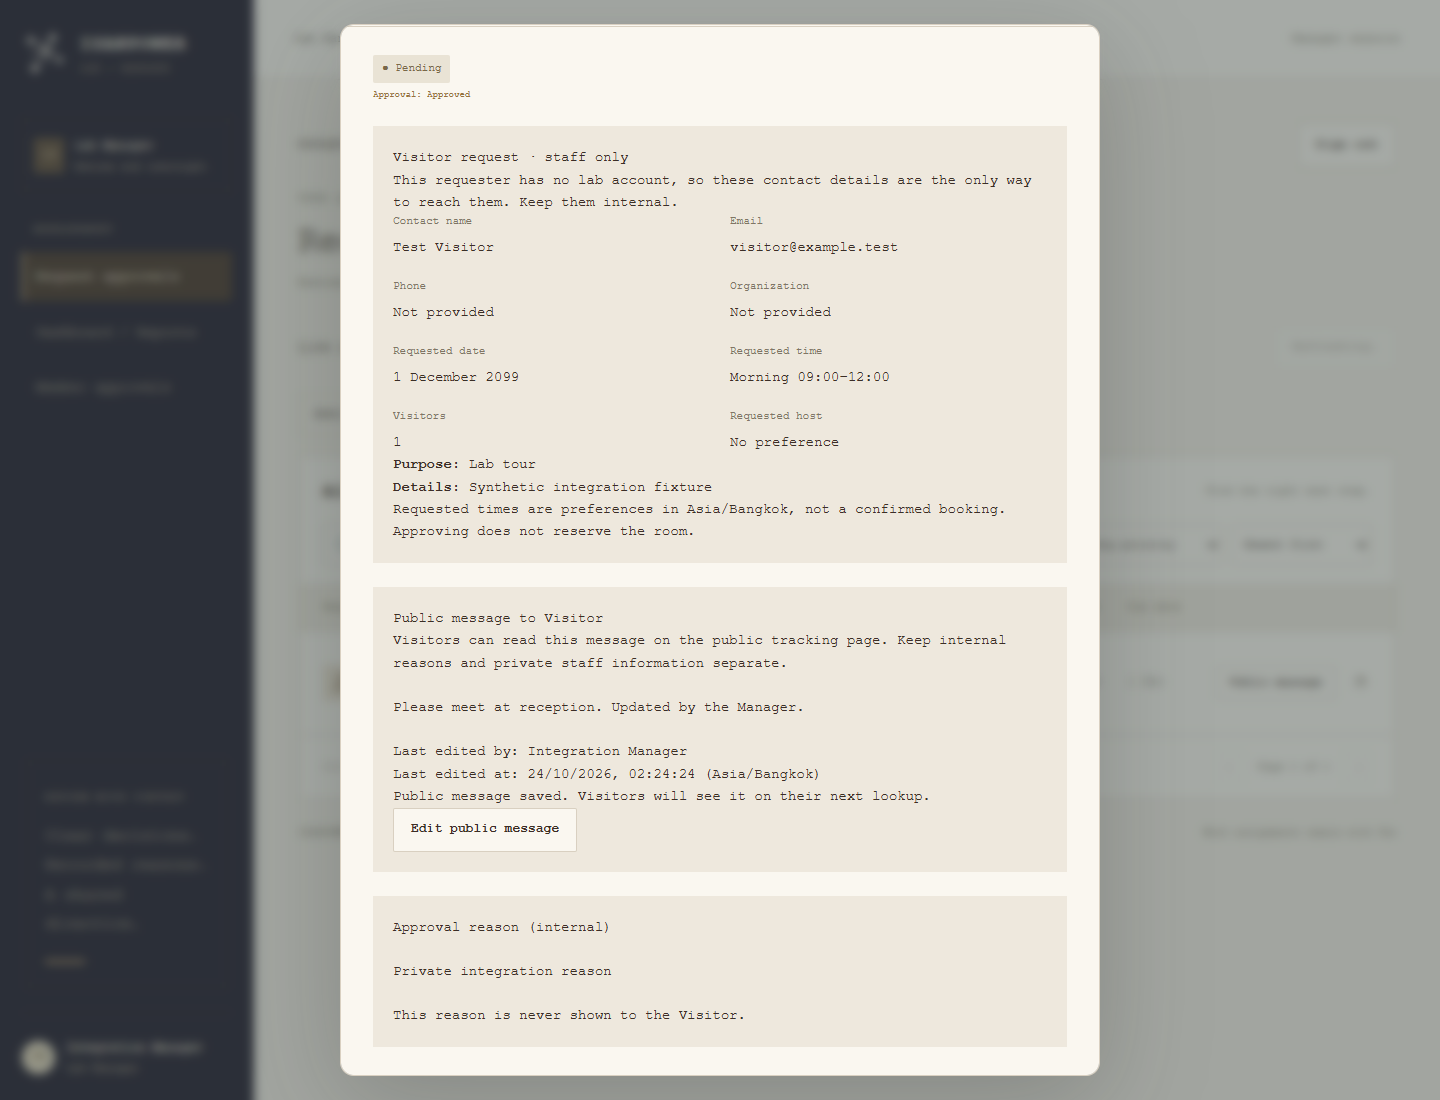
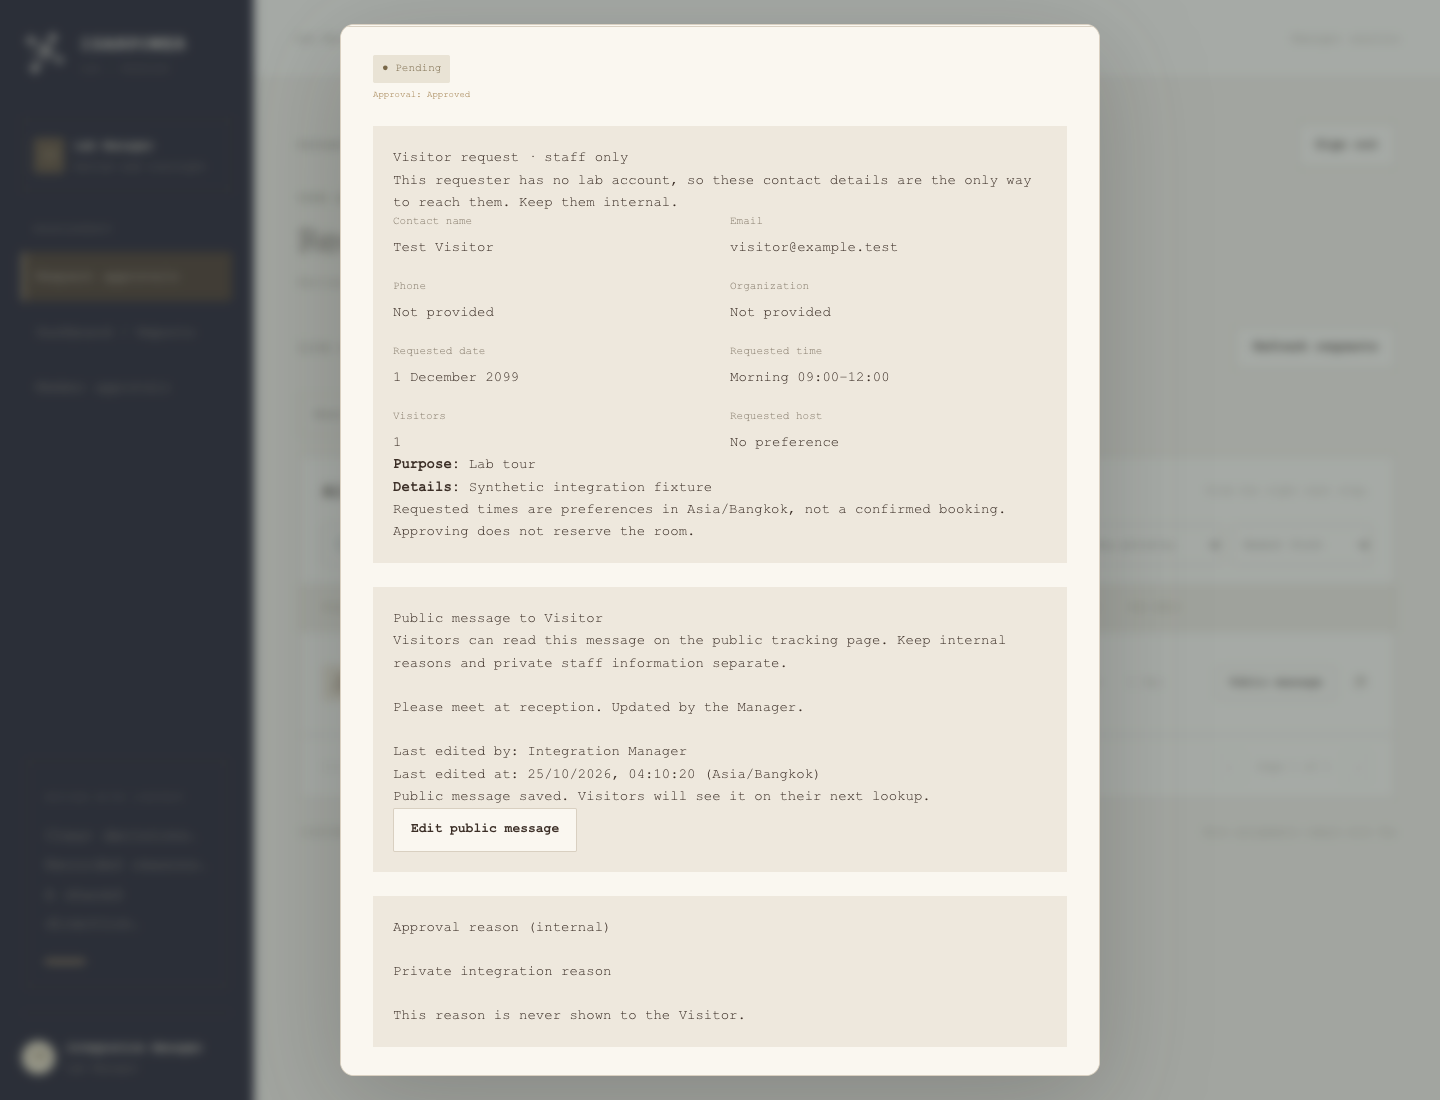
test: verify visitor public message integration on macOS

diff --git a/docs/development/INTEGRATION-QA-2026-10-25.md b/docs/development/INTEGRATION-QA-2026-10-25.md
@@ -7,10 +7,12 @@ Scope: CI checks and the Visitor public-message feature. This is a test record, 
 | Case | Expected | Actual | Result | Evidence / limit |
 | --- | --- | --- | --- | --- |
 | Web CI job | `npm ci`, lint, typecheck, contract tests, build on Node 24 | Job added to `.github/workflows/ci.yml` | Configured; remote run pending | No GitHub Actions run for these unpushed local changes |
-| Visitor form in regular tests | Existing form tests run under `test:contracts` | 12 total contract/form cases pass with bundled Node 24 | Pass locally | `apps/web/package.json`; Node 24.22.1 test run |
+| Visitor form in regular tests | Existing form tests run under `test:contracts` alongside status and tracking contracts | 18 cases pass with Node 24.22.1 | Pass locally | `apps/web/package.json`; command output |
 | Web lint | No errors | Passed locally | Pass | `npm --prefix apps/web run lint` |
 | Web typecheck/build | Pass in a clean checkout | Both pass on Node 24 after moving stale generated `.next/dev/types` out of the local checkout | Pass locally | Initial failure was a September-generated reference to removed `/admin/page`; clean CI run still pending |
 | API CI job | Isolated `_test` database, API lint/typecheck/tests/build | Existing job retained unchanged | Configured; remote run pending | Do not run destructive API tests against development/demo DB |
+| Visitor message and tracking API security | Only eligible Manager edits; wrong roles denied; public response has limited fields | 19 focused API cases pass in a uniquely named `_test` database | Pass locally | `npm --prefix apps/web run test:public-message-live` runs both focused suites before the browser flow |
+| Manager to Visitor live flow | Manager save; fresh Visitor lookup; clear and refresh | Live API + browser test passes on Node 24 | Pass locally | `apps/web/scripts/public-message.live.test.mjs`; isolated DB created and dropped; existing evidence screenshots refreshed |
 
 ## Integration checklist after teammate branches are merged
 
@@ -18,17 +20,17 @@ Record the tested commit, test database, browser profiles, expected and actual r
 
 | Case | Expected | Current result |
 | --- | --- | --- |
-| Manager edits approved Visitor message | Save succeeds; approval, internal reason and work status unchanged | Pending - edit API/UI absent from this checkout |
-| Manager edits rejected or closed Visitor message | Save succeeds under documented contract | Pending |
-| Manager clears message | Empty string saved; fresh tracking lookup shows empty message | Pending |
-| Member, TA, anonymous PATCH | 403/401; no data changed | Pending - independent security check after API merge |
-| Wrong source or pending approval PATCH | Rejected without changing decision/history/status | Pending |
-| Public tracking after save | Fresh lookup shows latest public message only | Pending |
-| Tracking privacy | No internal reason, editor identity, contact data or session token in public response | Pending |
+| Manager edits approved Visitor message | Save succeeds; approval, internal reason and work status unchanged | Pass - focused API and live browser tests |
+| Manager edits rejected or closed Visitor message | Save succeeds under documented contract | Pass - focused API test |
+| Manager clears message | Empty string saved; fresh tracking lookup shows empty message | Pass - live browser test |
+| Member, TA, anonymous PATCH | 403/401; no data changed | Pass - focused API test |
+| Wrong source or pending approval PATCH | Rejected without changing decision/history/status | Pass - focused API test |
+| Public tracking after save | Fresh lookup shows latest public message only | Pass - live browser test |
+| Tracking privacy | No internal reason, editor identity, contact data or session token in public response | Pass - focused API and live browser tests |
 | Member -> Manager -> TA approval flow | Submit, approve, self-claim, start and close succeed | Pending manual smoke test |
 | Rejection flow | Rejected request cannot be claimed, started or closed | Pending manual smoke test |
 | UX loading/error/double-submit | Input retained on failure; buttons disabled during request; success only after API confirmation | Pending person 3 merge/review |
 
-The current checkout contains Visitor submission and tracking, but no `PATCH /api/requests/:id/public-message` route or `docs/development/VISITOR-MESSAGE-API.md`. The integration cases above must be executed after the backend and frontend feature branches are integrated. The existing API tests belong to the backend owner; this checklist is an independent end-to-end/security review.
+The backend and frontend feature branches are integrated in the tested checkout. The focused API cases belong to the backend owner; this is an independent integration run of those tests and the live browser flow. A macOS cleanup defect in the live test was fixed in `apps/web/scripts/public-message.live.test.mjs`; the earlier interrupted run left an isolated test database, which was removed. The passing rerun created and dropped a new isolated database.
 
-Before closing QA: run the clean CI workflow, attach its URL, list bugs and retest results, and replace each Pending cell with Pass/Fail plus evidence. Do not use the development or demo database for API tests; the test suite deletes records and requires a database name ending in `_test`.
+Before closing QA: run the clean CI workflow, attach its URL, complete the original Member/Manager/TA smoke paths and UX review, and replace each remaining Pending cell with Pass/Fail plus evidence. Do not use the development or demo database for API tests; the test suite deletes records and requires a database name ending in `_test`.
